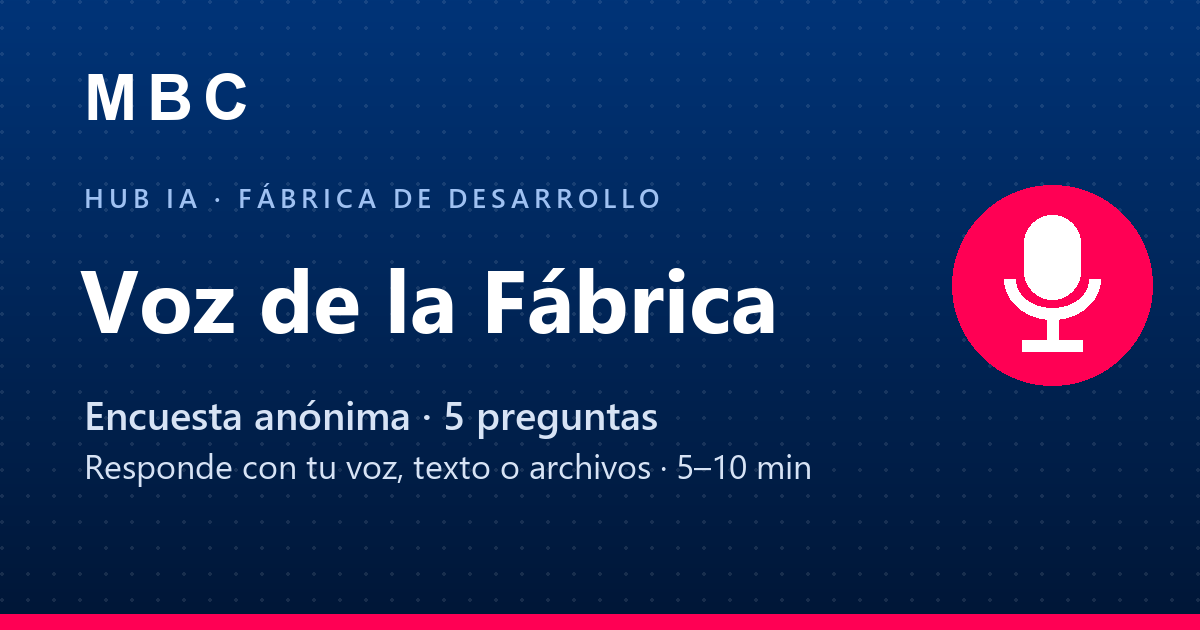
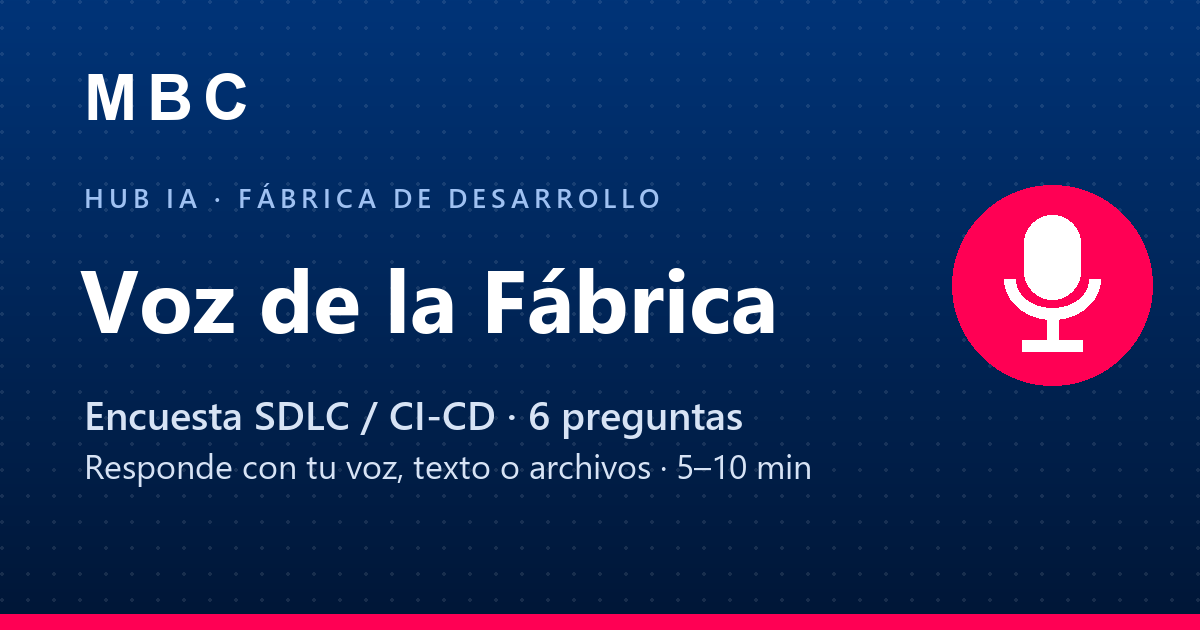
Nueva estructura: encuesta breve SDLC/CI-CD de 6 preguntas (P1 dominios multiseleccion)

Changed region(s): [[0.2158, 0.6333, 0.6167, 0.6937]]

diff --git a/index.html b/index.html
@@ -4,11 +4,11 @@
 <meta charset="utf-8">
 <meta name="viewport" content="width=device-width, initial-scale=1">
 <title>Voz de la Fábrica · Hub IA</title>
-<meta name="description" content="Encuesta anónima de 5 preguntas: responde con tu voz, texto o archivos. 5–10 minutos.">
+<meta name="description" content="Encuesta SDLC / CI-CD de 6 preguntas: responde con tu voz, texto o archivos. 5–10 minutos.">
 <meta property="og:type" content="website">
 <meta property="og:site_name" content="MBC · Hub IA">
 <meta property="og:title" content="Voz de la Fábrica · Hub IA">
-<meta property="og:description" content="Encuesta anónima de 5 preguntas: responde con tu voz, texto o archivos. 5–10 minutos.">
+<meta property="og:description" content="Encuesta SDLC / CI-CD de 6 preguntas: responde con tu voz, texto o archivos. 5–10 minutos.">
 <meta property="og:url" content="https://nelson2206.github.io/voz-fabrica-hub/">
 <meta property="og:image" content="https://nelson2206.github.io/voz-fabrica-hub/og-image.png">
 <meta property="og:image:width" content="1200">
@@ -106,6 +106,16 @@
   .file-row .fsize{color:var(--muted);font-size:12.5px}
   .btn-link{appearance:none;background:none;border:none;cursor:pointer;color:var(--accent);font:inherit;font-size:13.5px;text-decoration:underline;padding:2px}
 
+  .pillbox{display:flex;flex-wrap:wrap;gap:8px}
+  .pill{position:relative;cursor:pointer}
+  .pill input{position:absolute;opacity:0;pointer-events:none}
+  .pill span{display:inline-block;border:1.5px solid var(--field-line);background:var(--card);color:var(--ink);border-radius:999px;padding:8px 15px;font-size:14px;line-height:1.2}
+  .pill input:checked + span{background:var(--navy);border-color:var(--navy);color:#fff;font-weight:700}
+  .pill input:focus-visible + span{outline:3px solid var(--accent);outline-offset:2px}
+  .qnote{color:var(--muted);font-size:13px;margin:12px 0 0;font-style:italic}
+  .qhintline{color:var(--muted);font-size:13.5px;margin:-8px 0 16px 41px}
+  @media (max-width:560px){ .qsub,.qhintline{margin-left:0} }
+
   .ref-fig{margin:0 0 16px;background:var(--panel);border-radius:12px;padding:14px 16px 10px}
   .ref-fig .scroller{overflow-x:auto}
   .ref-fig svg{display:block;width:100%;min-width:620px;height:auto}
@@ -137,9 +147,9 @@
       <path fill="#FFFFFF" d="M3139.84 201 3860.17 201 3860.17 0 3148.64 0C3148.13 0 3147.62 0.01 3147.11 0.02 2906.1 1.66 2724.88 176.94 2724.88 428.03 2724.88 679.12 2905.48 852.72 3144.73 856.01 3145.07 856.01 3145.42 856.02 3145.76 856.03 3145.9 856.03 3146.05 856.03 3146.19 856.03 3147 856.04 3147.81 856.06 3148.63 856.06L3860.16 856.06 3860.16 655.06 3141.03 655.06C3033.15 651.52 2947.27 567.26 2947.27 428.02 2947.27 288.78 3029.79 204.6 3139.84 200.98Z"/>
       <path fill="#FFFFFF" d="M1485.95 0 2304.74 0C2482.07 0 2588.46 94.17 2588.46 231.14 2588.46 311.86 2550.55 384.01 2463.72 407.24L2463.72 426.81C2560.33 441.49 2614.14 508.75 2614.14 618.81 2614.14 765.56 2516.3 856.06 2334.08 856.06L1485.94 856.06 1485.94 0ZM2292.51 335.09C2345.1 335.09 2373.23 305.74 2373.23 259.27 2373.23 212.8 2345.1 183.45 2292.51 183.45L1706.08 183.45 1706.08 335.1 2292.51 335.1ZM2299.84 672.62C2357.32 672.62 2386.67 646.94 2386.67 595.57 2386.67 544.2 2357.32 518.52 2299.84 518.52L1706.08 518.52 1706.08 672.61 2299.84 672.61Z"/>
     </svg>
-    <p class="eyebrow">Hub IA · Fábrica de Desarrollo</p>
+    <p class="eyebrow">Hub IA · SDLC / CI-CD</p>
     <h1>Voz de la Fábrica</h1>
-    <p>Cinco preguntas, respondidas como prefieras: <strong>graba tu voz</strong>, escribe o adjunta un archivo en cada una. 5–10 minutos.</p>
+    <p>Queremos entender cómo funciona hoy el proceso de desarrollo, pruebas y despliegue — actividades, dependencias, herramientas, esperas y oportunidades de mejora. Seis preguntas: responde cada una como prefieras, <strong>con tu voz</strong>, texto o un documento. 5–10 minutos.</p>
     <span class="anon">🔒 Anónima — análisis agregado, no evalúa a personas</span>
   </div>
 </header>
@@ -165,7 +175,7 @@
   <div class="progress-wrap">
     <div class="progress-inner">
       <div class="pbar"><div id="pfill"></div></div>
-      <span class="ptext" id="ptext">0 de 5 respondidas</span>
+      <span class="ptext" id="ptext">0 de 6 respondidas</span>
     </div>
   </div>
 
@@ -206,12 +216,27 @@
   var MAX_AUDIO_SEC  = 300;           // 5 min por audio
   var MAX_TOTAL_B64  = 26*1024*1024;  // ~19 MB reales en total
 
+  var DOMAINS = ['Arquitectura','Systems Loans','Core Banking','Cross Systems','Retail Banking','Enterprise Banking','Payments','Corporate Functions','CIB Systems','Otro'];
+
   var QUESTIONS = [
-    {id:'P1', text:'Tu rol y contexto', fig:true, sub:'¿Qué haces en la fábrica y en qué fases participas? Usa el diagrama como referencia.'},
-    {id:'P2', text:'El camino de un desarrollo', sub:'Desde que llega el pedido hasta que se entrega: ¿cómo es el proceso hoy y dónde se traba más?'},
-    {id:'P3', text:'Esperas y dependencias', sub:'¿Qué áreas, aprobaciones, accesos o entornos te hacen esperar más, y cuánto suelen demorar?'},
-    {id:'P4', text:'Pruebas y pase a producción', sub:'¿Qué funciona bien y qué falla hoy — entornos, datos de prueba, automatización, ventanas de despliegue?'},
-    {id:'P5', text:'Tu receta', sub:'Si pudieras cambiar tres cosas para llegar antes a producción con calidad, ¿cuáles serían?'}
+    {id:'P1', text:'Contexto de tus últimos desarrollos', type:'domains',
+     sub:'Pensando en tus últimos desarrollos, ¿con qué temas o dominios estuvieron relacionados? Selecciona todos los que correspondan.',
+     note:'Un mismo desarrollo puede involucrar más de un dominio.'},
+    {id:'P2', text:'Tu rol y participación',
+     sub:'¿Cuál es tu rol y qué actividades realizas normalmente dentro de un desarrollo?',
+     hint:'Cuéntanos: en qué etapas participas · con qué roles o equipos interactúas · qué herramientas utilizas. Considera Scrum Master / líder técnico, Product Owner, QA, Arquitectura, Seguridad, Infraestructura, Reliability u otros especialistas.'},
+    {id:'P3', text:'Camino de un desarrollo', fig:true,
+     sub:'Piensa en un desarrollo reciente: desde que recibiste el requerimiento hasta que llegó a producción, ¿cuáles fueron los principales pasos?',
+     hint:'Intenta mencionar: principales actividades · personas o equipos involucrados · herramientas utilizadas · aprobaciones o controles · puntos de espera o retrabajo.'},
+    {id:'P4', text:'CI/CD, pruebas y despliegue',
+     sub:'¿Cómo pasa tu código desde el commit hasta producción y cómo se realizan las pruebas?',
+     hint:'Considera, cuando aplique: code review · build · pruebas automáticas y manuales · quality/security gates · despliegue a ambientes · aprobaciones · pase a producción · monitoreo. Indica qué es automático y qué manual, qué herramientas se utilizan y dónde suelen ocurrir fallos, bloqueos o demoras.'},
+    {id:'P5', text:'Dependencias, información y esperas',
+     sub:'¿De qué personas, áreas, sistemas o información dependes para poder avanzar durante un desarrollo?',
+     hint:'Puedes considerar: Product Owner · Scrum Master / líder técnico · Arquitectura · Seguridad · Infraestructura · QA · Reliability · otros equipos · accesos · ambientes · datos de prueba · documentación. Indica cuáles son las dependencias que más tiempo o esfuerzo generan.'},
+    {id:'P6', text:'Principales oportunidades de mejora',
+     sub:'Si pudieras mejorar tres cosas del proceso actual de desarrollo, pruebas y despliegue, ¿cuáles serían?',
+     hint:'Prioriza actividades relacionadas con: trabajo manual · esperas · retrabajo · coordinación entre equipos · búsqueda de información · testing · aprobaciones · despliegues · análisis de errores · uso de múltiples herramientas.'}
   ];
 
   // Diagrama de referencia: ciclo de vida de la fábrica (etapa de ejecución del SDLC)
@@ -281,7 +306,9 @@
 
   // ================== Estado por pregunta ==================
   var state = {};
-  QUESTIONS.forEach(function(q){ state[q.id] = {audio:null, text:'', file:null}; });
+  QUESTIONS.forEach(function(q){
+    state[q.id] = (q.type === 'domains') ? {domains:[], otro:''} : {audio:null, text:'', file:null};
+  });
 
   // ================== Render ==================
   var root = $('#qRoot');
@@ -289,11 +316,28 @@
     var card = document.createElement('section');
     card.className = 'qcard';
     card.id = 'card-'+q.id;
-    card.innerHTML =
+    var inner =
       '<div class="qtitle"><span class="qnum">'+(idx+1)+'</span><span class="qtext">'+esc(q.text)+'</span>'+
       '<span class="answered">✓ Respondida</span></div>'+
       '<p class="qsub">'+esc(q.sub)+'</p>'+
-      (q.fig ? SDLC_FIG : '')+
+      (q.hint ? '<p class="qhintline">'+esc(q.hint)+'</p>' : '')+
+      (q.fig ? SDLC_FIG : '');
+    if (q.type === 'domains'){
+      inner += '<div class="pillbox">';
+      DOMAINS.forEach(function(o){
+        inner += '<label class="pill"><input type="checkbox" name="dom" value="'+esc(o)+'"><span>'+esc(o)+'</span></label>';
+      });
+      inner += '</div>'+
+        '<div id="otroWrap" class="hidden" style="margin-top:12px;max-width:340px">'+
+          '<label for="otroInput" style="margin:0 0 5px">¿Cuál otro?</label>'+
+          '<input type="text" id="otroInput" maxlength="120">'+
+        '</div>'+
+        (q.note ? '<p class="qnote">'+esc(q.note)+'</p>' : '');
+      card.innerHTML = inner;
+      root.appendChild(card);
+      return;
+    }
+    card.innerHTML = inner +
       '<div class="modes">'+
         '<div class="mode">'+
           '<div class="mode-label">🎙 Responder con tu voz</div>'+
@@ -431,7 +475,21 @@
 
   // ================== Archivos y texto ==================
   function pickFile(qid){ document.getElementById('fileinput-'+qid).click(); }
+
+  // Dominios (P1)
+  Array.prototype.forEach.call(document.querySelectorAll('input[name="dom"]'), function(chk){
+    chk.addEventListener('change', function(){
+      var sel = Array.prototype.map.call(document.querySelectorAll('input[name="dom"]:checked'), function(c){ return c.value; });
+      state['P1'].domains = sel;
+      document.getElementById('otroWrap').classList.toggle('hidden', sel.indexOf('Otro') < 0);
+      refresh();
+    });
+  });
+  var otroInput = document.getElementById('otroInput');
+  if (otroInput) otroInput.addEventListener('input', function(ev){ state['P1'].otro = ev.target.value.trim(); });
+
   QUESTIONS.forEach(function(q){
+    if (q.type === 'domains') return;
     document.getElementById('fileinput-'+q.id).addEventListener('change', function(ev){
       var f = ev.target.files[0];
       ev.target.value = '';
@@ -479,6 +537,7 @@
   // ================== Progreso ==================
   function isAnswered(qid){
     var s = state[qid];
+    if (s.domains) return s.domains.length > 0;
     return !!(s.audio || s.text || s.file);
   }
   function refresh(){
@@ -504,7 +563,7 @@
     var pending = QUESTIONS.filter(function(q){ return !isAnswered(q.id); });
     if (pending.length){
       pending.forEach(function(q){ document.getElementById('card-'+q.id).classList.add('missing'); });
-      showMsg('warn','Te falta responder '+pending.length+' pregunta'+(pending.length>1?'s':'')+' (marcadas en fucsia). Cada una acepta audio, texto o archivo.');
+      showMsg('warn','Te falta responder '+pending.length+' pregunta'+(pending.length>1?'s':'')+' (marcadas en fucsia). La pregunta 1 es de selección; las demás aceptan audio, texto o archivo.');
       document.getElementById('card-'+pending[0].id).scrollIntoView({behavior:'smooth', block:'center'});
       return;
     }
@@ -512,6 +571,12 @@
     var answers = {}, attachments = [];
     QUESTIONS.forEach(function(q, idx){
       var s = state[q.id];
+      if (q.type === 'domains'){
+        var doms = s.domains.join('; ');
+        if (s.domains.indexOf('Otro') >= 0 && s.otro) doms += ' | Otro: ' + s.otro;
+        answers[q.id+' · '+q.text+' (dominios)'] = doms;
+        return;
+      }
       answers[q.id+' · '+q.text+' (texto)'] = s.text || '';
       if (s.audio){
         var ext = (s.audio.mime||'').indexOf('mp4') >= 0 ? 'm4a' : 'webm';
